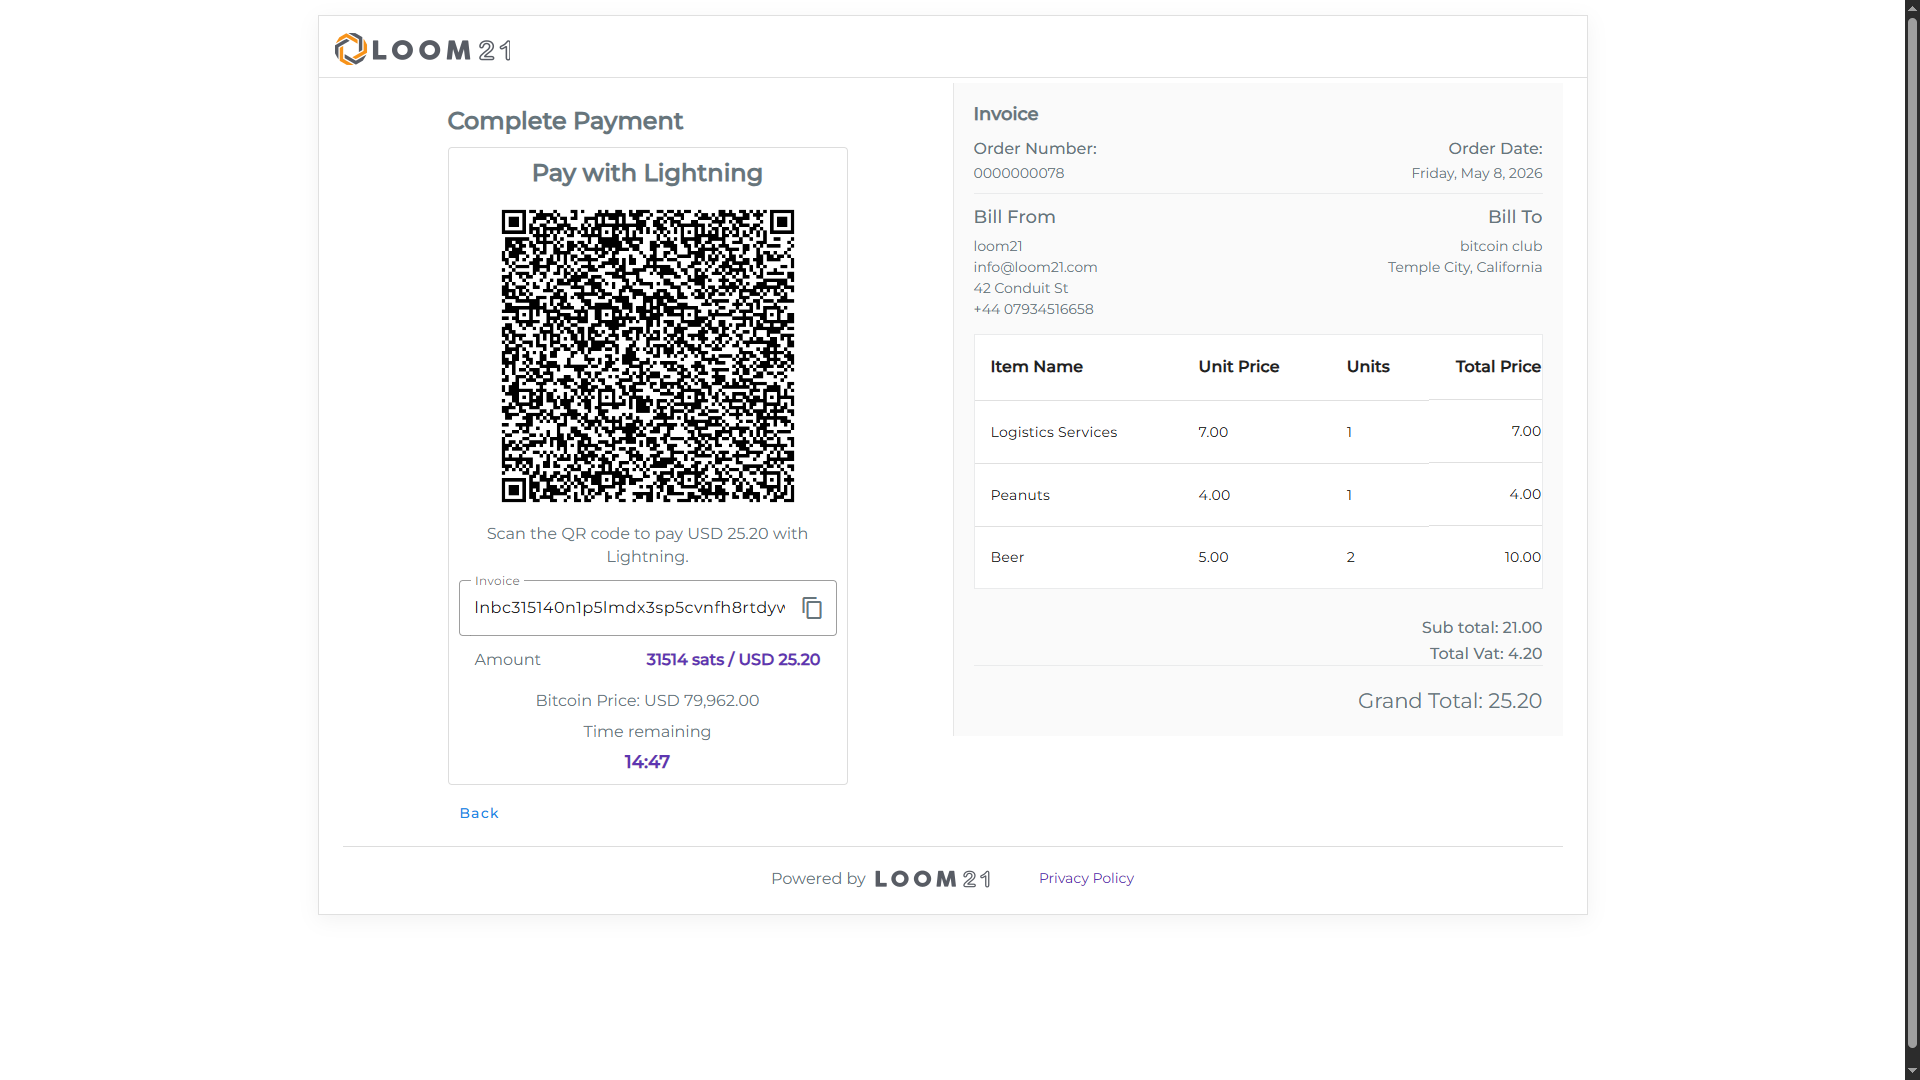
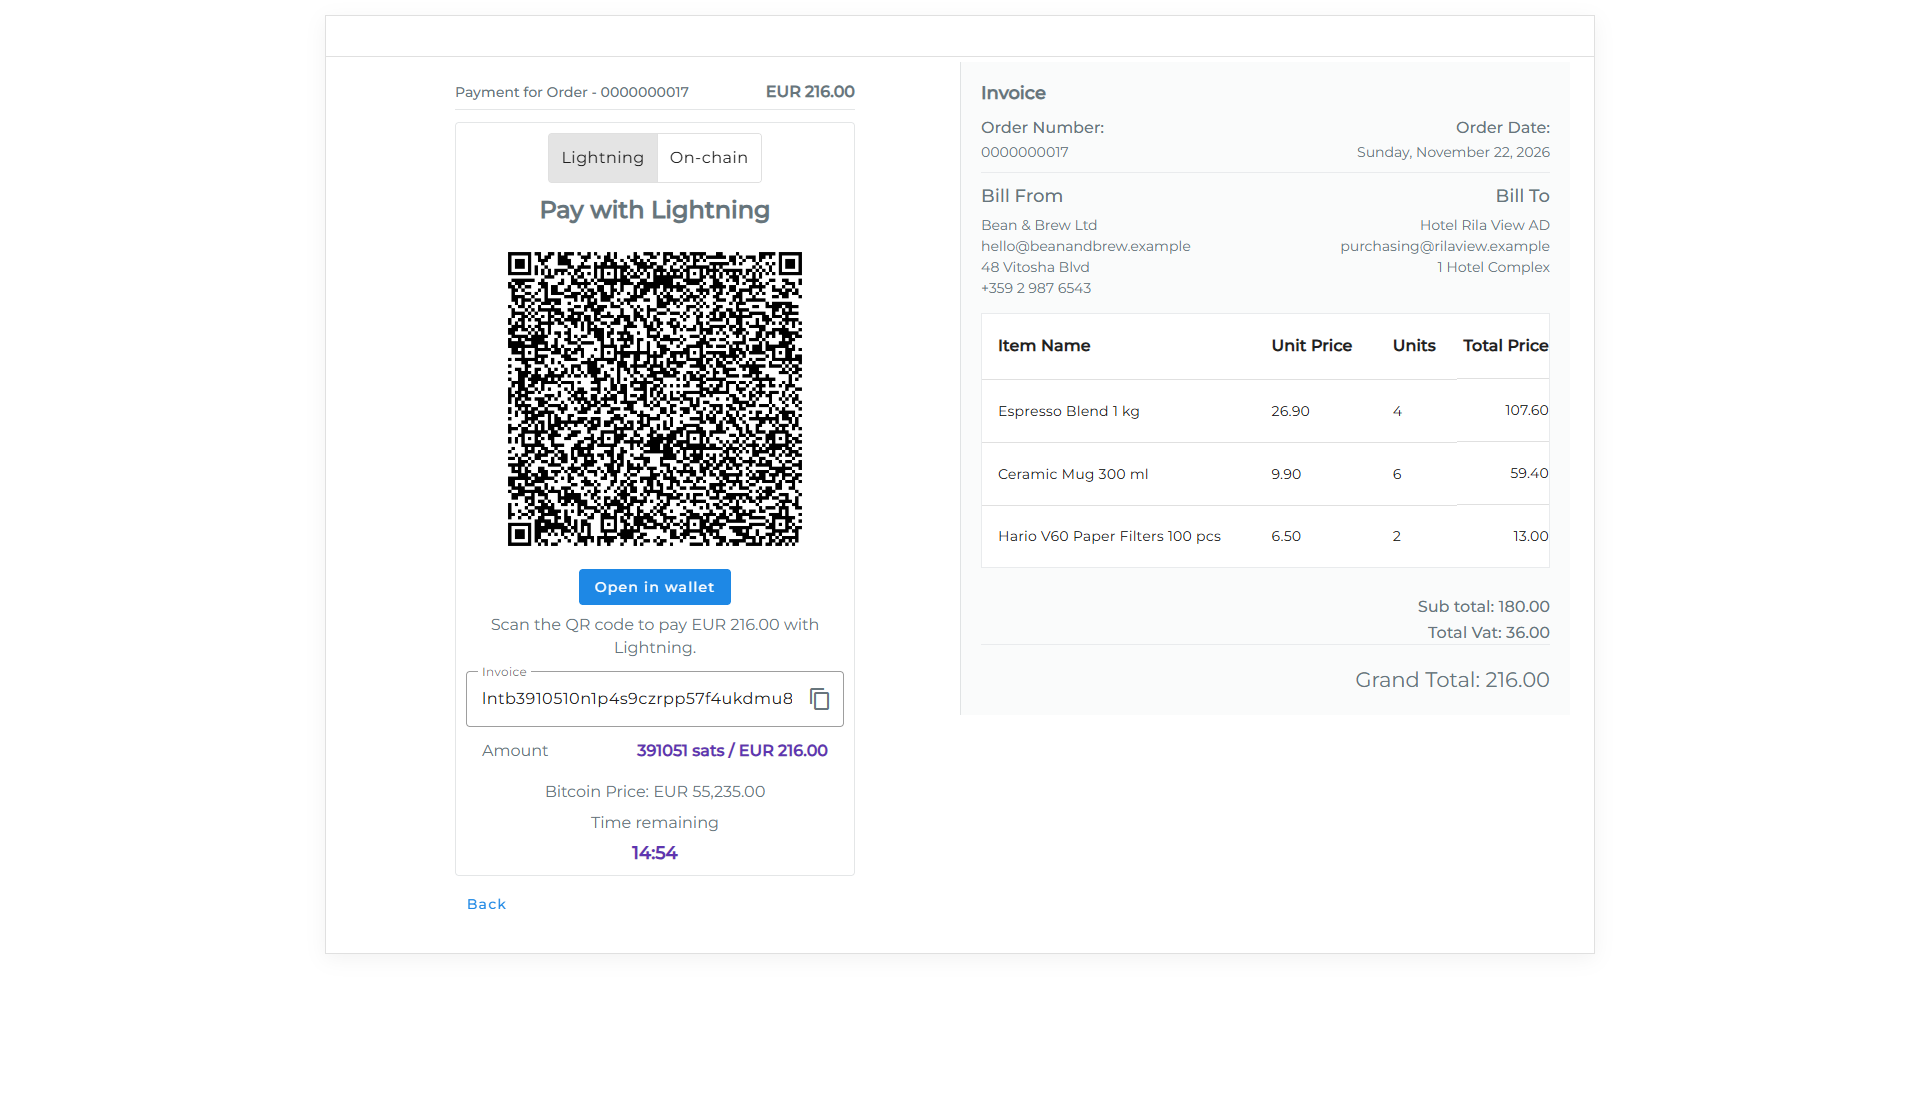
Pay pages and Buy button retaken with test providers
The card and Lightning pay pages, shot with Stripe test keys and a
BTCPay testnet store, in English and Bulgarian (README-bg now uses
only Bulgarian images), and the Buy button dialog with a live preview.

Claude-Session: https://claude.ai/code/session_01QXfPfgwYdA596YNScQZUBw

diff --git a/README-bg.md b/README-bg.md
@@ -352,9 +352,9 @@
 
 ![Споделяне на поръчка](https://raw.githubusercontent.com/loom21/loom21doc/main/images/bg/share-sale-order.png)
 
-![Плащане с биткойн](https://raw.githubusercontent.com/loom21/loom21doc/main/images/sale-order-lightning-payment.png)
+![Плащане с биткойн](https://raw.githubusercontent.com/loom21/loom21doc/main/images/bg/sale-order-lightning-payment.png)
 
-![Плащане с карта](https://raw.githubusercontent.com/loom21/loom21doc/main/images/sale-order-stripe-payment.png)
+![Плащане с карта](https://raw.githubusercontent.com/loom21/loom21doc/main/images/bg/sale-order-stripe-payment.png)
 
 > :bell: Всички функции в приложението са защитени с автентикация, с изключение на връзките, генерирани чрез бутона Изпрати.
 
